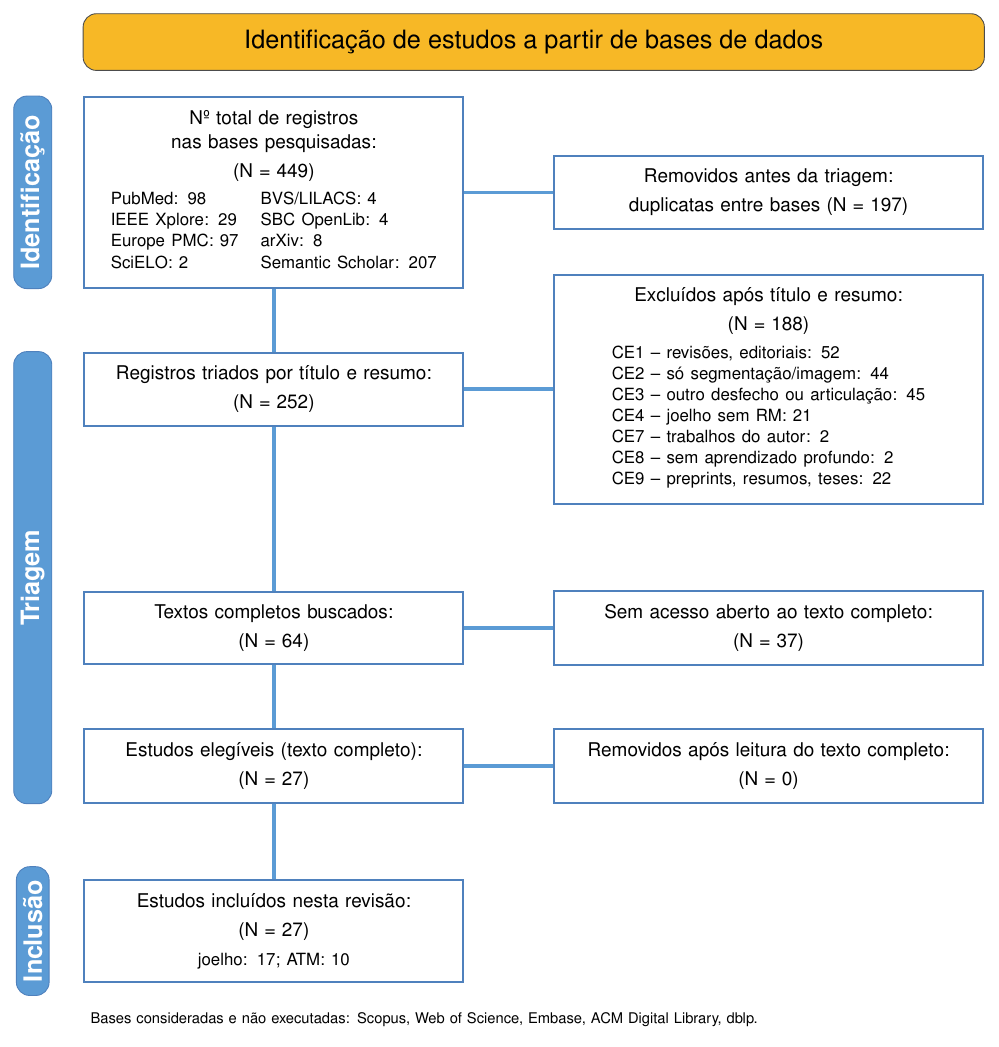
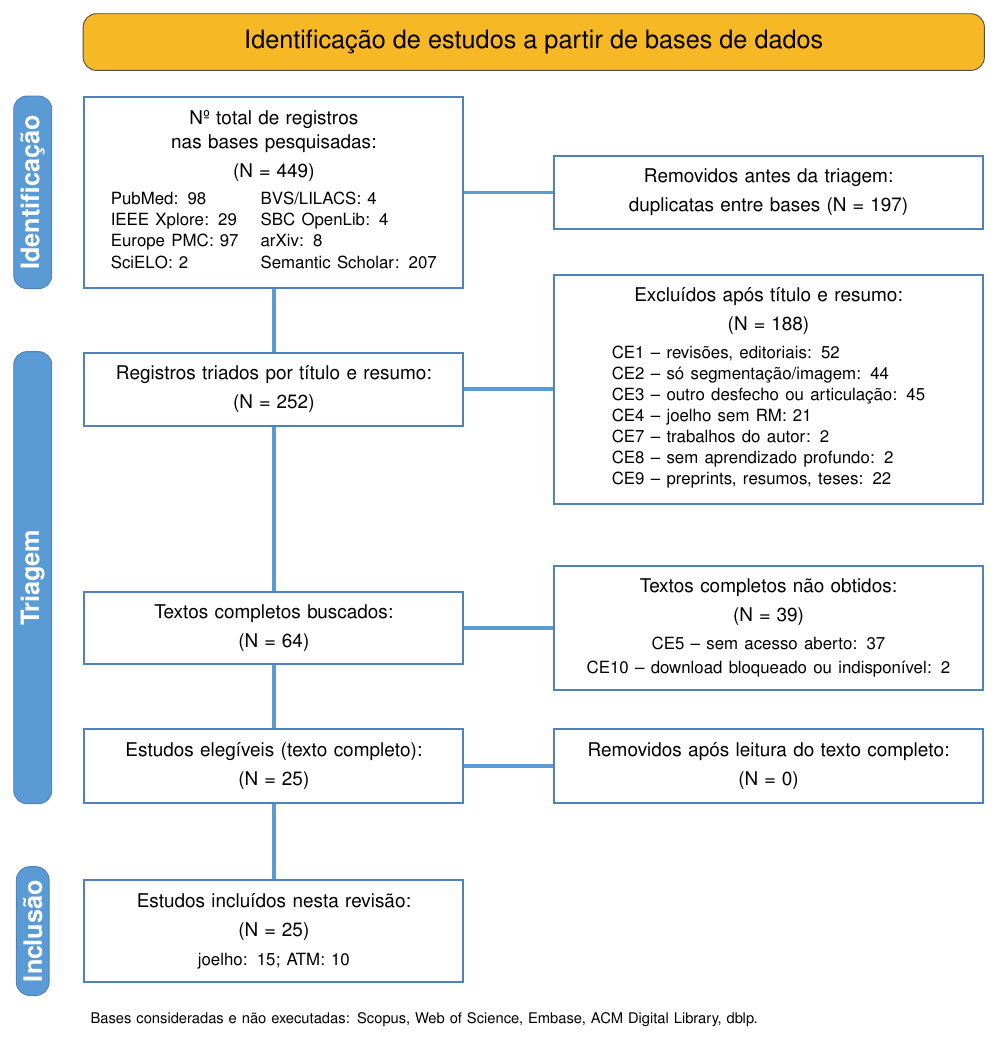
v2.1.0: exclui Manfredonia 2024 e Yan 2021 por CE10 (texto completo não obtido)
- Critério CE10: acesso aberto, mas download bloqueado ou falho no site da editora
- Incluídos: 25 (joelho 15, ATM 10); não obtidos: 39 (CE5 37, CE10 2)
- Fluxograma, tabela, README, docs/bases.md, lista_pdfs, .bib e script de PDFs atualizados
- Licenças conferidas nos PDFs; correção da licença de Yeoh 2023 e das páginas de Simran 2025

Claude-Session: https://claude.ai/code/session_014UpX5RmawNWZ6w4CZaLoEx

Changed region(s): [[0.5896, 0.5501, 0.962, 0.6724]]

diff --git a/src/prisma_counts.py b/src/prisma_counts.py
@@ -35,7 +35,8 @@ def counts(rows):
     screened = len(rows) - dec["CE6"]
     excl = {c: dec[c] for c in T2_CODES if dec[c]}
     sought = screened - sum(excl.values())
-    assessed = sought - dec["CE5"]
+    not_retrieved = dec["CE5"] + dec["CE10"]
+    assessed = sought - not_retrieved
     inc = [r for r in rows if r["decisao"] == "INCLUIDO"]
     return OrderedDict(
         identified_by_base=OrderedDict((b, by_base[b]) for b in DEDUP_ORDER if by_base[b] or b in by_base),
@@ -45,7 +46,9 @@ def counts(rows):
         excluded_title_abstract=excl,
         excluded_title_abstract_total=sum(excl.values()),
         reports_sought=sought,
-        reports_not_retrieved_CE5=dec["CE5"],
+        reports_not_retrieved=not_retrieved,
+        not_retrieved_CE5_no_open_access=dec["CE5"],
+        not_retrieved_CE10_download_failed=dec["CE10"],
         reports_assessed=assessed,
         reports_excluded=assessed - len(inc),
         included_total=len(inc),
@@ -106,7 +109,8 @@ def tikz(c):
 \node[lado, right=1.4cm of tri] (ex1) {{Excluídos após título e resumo:\\[2pt] (N = {c['excluded_title_abstract_total']})\\[3pt]
   {{\footnotesize {excl}}}}};
 \node[caixa, below=2.6cm of tri] (bus) {{Textos completos buscados:\\[2pt] (N = {c['reports_sought']})}};
-\node[lado, right=1.4cm of bus] (ce5) {{Sem acesso aberto ao texto completo:\\[2pt] (N = {c['reports_not_retrieved_CE5']})}};
+\node[lado, right=1.4cm of bus] (ce5) {{Textos completos não obtidos:\\[2pt] (N = {c['reports_not_retrieved']})\\[3pt]
+  {{\footnotesize CE5 -- sem acesso aberto: {c['not_retrieved_CE5_no_open_access']}\\ CE10 -- download bloqueado ou indisponível: {c['not_retrieved_CE10_download_failed']}}}}};
 \node[caixa, below=1.0cm of bus] (ele) {{Estudos elegíveis (texto completo):\\[2pt] (N = {c['reports_assessed']})}};
 \node[lado, right=1.4cm of ele] (ex2) {{Removidos após leitura do texto completo:\\[2pt] (N = {c['reports_excluded']})}};
 \node[caixa, below=1.2cm of ele] (inc) {{Estudos incluídos nesta revisão:\\[2pt] (N = {c['included_total']})\\[2pt]

diff --git a/figures/prisma2020.tex b/figures/prisma2020.tex
@@ -22,11 +22,12 @@
 \node[lado, right=1.4cm of tri] (ex1) {Excluídos após título e resumo:\\[2pt] (N = 188)\\[3pt]
   {\footnotesize \begin{tabular}{@{}l@{}}CE1 -- revisões, editoriais: 52 \\ CE2 -- só segmentação/imagem: 44 \\ CE3 -- outro desfecho ou articulação: 45 \\ CE4 -- joelho sem RM: 21 \\ CE7 -- trabalhos do autor: 2 \\ CE8 -- sem aprendizado profundo: 2 \\ CE9 -- preprints, resumos, teses: 22\end{tabular}}};
 \node[caixa, below=2.6cm of tri] (bus) {Textos completos buscados:\\[2pt] (N = 64)};
-\node[lado, right=1.4cm of bus] (ce5) {Sem acesso aberto ao texto completo:\\[2pt] (N = 37)};
-\node[caixa, below=1.0cm of bus] (ele) {Estudos elegíveis (texto completo):\\[2pt] (N = 27)};
+\node[lado, right=1.4cm of bus] (ce5) {Textos completos não obtidos:\\[2pt] (N = 39)\\[3pt]
+  {\footnotesize CE5 -- sem acesso aberto: 37\\ CE10 -- download bloqueado ou indisponível: 2}};
+\node[caixa, below=1.0cm of bus] (ele) {Estudos elegíveis (texto completo):\\[2pt] (N = 25)};
 \node[lado, right=1.4cm of ele] (ex2) {Removidos após leitura do texto completo:\\[2pt] (N = 0)};
-\node[caixa, below=1.2cm of ele] (inc) {Estudos incluídos nesta revisão:\\[2pt] (N = 27)\\[2pt]
-  {\footnotesize joelho: 17; ATM: 10}};
+\node[caixa, below=1.2cm of ele] (inc) {Estudos incluídos nesta revisão:\\[2pt] (N = 25)\\[2pt]
+  {\footnotesize joelho: 15; ATM: 10}};
 \path let \p1=(id.north west), \p2=(dup.north east) in node[draw=black!70, fill=laranja, rounded corners=6pt,
   minimum width=\x2-\x1, minimum height=0.9cm, font=\large, anchor=south] (banner) at (\x1/2+\x2/2, \y1+0.4cm)
   {Identificação de estudos a partir de bases de dados};

diff --git a/src/config.py b/src/config.py
@@ -95,6 +95,7 @@ CRITERIA = {
     "CE7": "Author's own work (already reported as Contribution 1 or 2)",
     "CE8": "Does not use deep learning (classical machine learning only)",
     "CE9": "Not a peer-reviewed full paper: preprint, thesis, congress abstract or peer-review report",
+    "CE10": "Full text not retrieved: open access, but the download was blocked or failed on the publisher's site",
 }
 
 # Order in which databases were deduplicated (a record is CE6 in every database after the first one)

diff --git a/docs/lista_pdfs.md b/docs/lista_pdfs.md
@@ -1,9 +1,10 @@
-# Lista de PDFs dos estudos incluídos (v2.0)
+# Lista de PDFs dos estudos incluídos (v2.1)
 
-Salve cada PDF em `pdfs/` com o nome `<chave>.pdf`. Antes de subir para o GitHub, confira a licença na primeira página do artigo.
-Os PDFs com "NÃO" na coluna *Pode subir?* ficam só no seu computador, em `pdfs/_local/` (pasta ignorada pelo Git). Para o repositório, o link basta.
+Os PDFs estão em `pdfs/` com o nome `<chave>.pdf`. A licença de cada um foi conferida na primeira página.
+Os marcados com "NÃO" ficam só no computador do autor, em `pdfs/_local/` (pasta ignorada pelo Git); para o repositório, o link basta.
+Dois estudos que passaram na triagem foram excluídos por CE10, porque o texto completo não pôde ser obtido (ver `docs/bases.md`).
 
-| # | Chave BibTeX | Articulação | Origem | Licença | Pode subir? | Link |
+| # | Chave BibTeX | Articulação | Origem | Licença | No repositório? | Link |
 |---|---|---|---|---|---|---|
 | 1 | `ananya_radiologyassistant_2023` | joelho | Semantic Scholar cc9389ea1d | CC BY (confirmado no PDF) | sim | https://doi.org/10.26562/irjcs.2023.v1004.07 |
 | 2 | `daneshmand_osteophytes_2024` | joelho | PubMed 38323840 | CC BY (confirmado no PDF) | sim | https://doi.org/10.1002/jor.25800 |
@@ -11,24 +12,22 @@ Os PDFs com "NÃO" na coluna *Pode subir?* ficam só no seu computador, em `pdfs
 | 4 | `guo_cartilage_2024` | joelho | Europe PMC 38487024 | CC BY 4.0 | sim | https://pmc.ncbi.nlm.nih.gov/articles/PMC10939064/ |
 | 5 | `karim_deepkneeexplainer_2021` | joelho | Semantic Scholar f53c1f9c39 | CC BY-NC-ND 4.0 (confirmado no PDF) | sim | https://doi.org/10.1109/ACCESS.2021.3062493 |
 | 6 | `liao_ohc_2025` | joelho | PubMed 40334259 | CC BY | sim | https://pmc.ncbi.nlm.nih.gov/articles/PMC12058133/ |
-| 7 | `manfredonia_klgrade_2024` | joelho | Semantic Scholar a00efac222 | CC BY-NC-ND 4.0 (SciTePress) | sim | https://doi.org/10.5220/0012471200003636 |
-| 8 | `margain_cthmaps_2026` | joelho | PubMed 41874622 | CC BY | sim | https://pmc.ncbi.nlm.nih.gov/articles/PMC13710605/ |
-| 9 | `moorthy_csfaunet_2026` | joelho | PubMed 41622323 | CC BY-NC-ND | sim | https://pmc.ncbi.nlm.nih.gov/articles/PMC12916792/ |
-| 10 | `namiri_phenotyping_2021` | joelho | PubMed 34035386 | CC BY | sim | https://pmc.ncbi.nlm.nih.gov/articles/PMC8149826/ |
-| 11 | `panwar_stacking_2024` | joelho | PubMed 39500982 | CC BY | sim | https://pmc.ncbi.nlm.nih.gov/articles/PMC11538306/ |
-| 12 | `panwar_vit_2025` | joelho | PubMed 41029374 | CC BY-NC-ND | sim | https://pmc.ncbi.nlm.nih.gov/articles/PMC12487547/ |
-| 13 | `simran_3dcnnvit_2025` | joelho | Semantic Scholar 3bb7bad3c5 | CC BY 4.0 | sim | https://doi.org/10.13005/bpj/3202 |
-| 14 | `yan_cnnmri_2021` | joelho | Semantic Scholar cf789df2c3 | CC BY (Hindawi/Wiley; conferir no PDF); sem retratação registrada no Crossref em 21/11/2026 | sim | https://doi.org/10.1155/2021/2803857 |
-| 15 | `yeoh_multitask_2023` | joelho | IEEE Xplore 10336807 | CC BY 4.0 (IEEE Access; confirmar no PDF) | sim | https://doi.org/10.1109/ACCESS.2023.3338379 |
-| 16 | `yeoh_tl3d_2023` | joelho | PubMed 37122858 | CC BY | sim | https://pmc.ncbi.nlm.nih.gov/articles/PMC10136763/ |
-| 17 | `zhong_uda_2023` | joelho | PubMed 37969620 | CC BY-NC-ND | sim | https://pmc.ncbi.nlm.nih.gov/articles/PMC10644135/ |
-| 18 | `choi_opg_2021` | ATM | PubMed 33986459 | CC BY | sim | https://pmc.ncbi.nlm.nih.gov/articles/PMC8119725/ |
-| 19 | `iqbal_cbct_2026` | ATM | Semantic Scholar b0d0acdf3f | não informada (Bioinformation; conferir no PDF) | NÃO | https://doi.org/10.6026/973206300227522 |
-| 20 | `krishnamoorthy_pfrcnn_2023` | ATM | Semantic Scholar 5a534d49e6 | não informada | NÃO | https://doi.org/10.17762/ijritcc.v11i6.7384 |
-| 21 | `lang_m4tmd_2026` | ATM | PubMed 41461305 | CC BY (Europe PMC; confirmar no PDF) | sim | https://doi.org/10.1016/j.jdent.2025.106322 |
-| 22 | `lee_bonescan_2025` | ATM | PubMed 41497394 | CC BY | sim | https://pmc.ncbi.nlm.nih.gov/articles/PMC12767182/ |
-| 23 | `lee_tmjfusion_2026` | ATM | Semantic Scholar 6dbe548de4 | CC BY-NC-ND 4.0 | sim | https://doi.org/10.1038/s41598-026-60962-4 |
-| 24 | `nguyen_opg_2026` | ATM | Semantic Scholar e082c832e5 | CC BY 4.0 | sim | https://doi.org/10.2174/01187421063134260810074044 |
-| 25 | `nozawa_tmj_2024` | ATM | PubMed 39067043 | sem licença aberta informada | NÃO | https://doi.org/10.1093/dmfr/twae040 |
-| 26 | `trivedi_cbct_2026` | ATM | Semantic Scholar 9f6a4e73a6 | Elsevier user license (conferir se é CC BY no PDF) | NÃO | https://doi.org/10.1016/j.ddj.2026.100122 |
-| 27 | `xu_tmjdjd_2026` | ATM | PubMed 42652629 | CC BY | sim | https://pmc.ncbi.nlm.nih.gov/articles/PMC13513506/ |
+| 7 | `margain_cthmaps_2026` | joelho | PubMed 41874622 | CC BY 4.0 (confirmado no PDF) | sim | https://pmc.ncbi.nlm.nih.gov/articles/PMC13710605/ |
+| 8 | `moorthy_csfaunet_2026` | joelho | PubMed 41622323 | CC BY-NC-ND | sim | https://pmc.ncbi.nlm.nih.gov/articles/PMC12916792/ |
+| 9 | `namiri_phenotyping_2021` | joelho | PubMed 34035386 | CC BY | sim | https://pmc.ncbi.nlm.nih.gov/articles/PMC8149826/ |
+| 10 | `panwar_stacking_2024` | joelho | PubMed 39500982 | CC BY | sim | https://pmc.ncbi.nlm.nih.gov/articles/PMC11538306/ |
+| 11 | `panwar_vit_2025` | joelho | PubMed 41029374 | CC BY-NC-ND 4.0 (confirmado no PDF) | sim | https://pmc.ncbi.nlm.nih.gov/articles/PMC12487547/ |
+| 12 | `simran_3dcnnvit_2025` | joelho | Semantic Scholar 3bb7bad3c5 | CC BY 4.0 (confirmado no PDF) | sim | https://doi.org/10.13005/bpj/3202 |
+| 13 | `yeoh_multitask_2023` | joelho | IEEE Xplore 10336807 | CC BY-NC-ND 4.0 (confirmado no PDF) | sim | https://doi.org/10.1109/ACCESS.2023.3338379 |
+| 14 | `yeoh_tl3d_2023` | joelho | PubMed 37122858 | CC BY | sim | https://pmc.ncbi.nlm.nih.gov/articles/PMC10136763/ |
+| 15 | `zhong_uda_2023` | joelho | PubMed 37969620 | CC BY-NC-ND | sim | https://pmc.ncbi.nlm.nih.gov/articles/PMC10644135/ |
+| 16 | `choi_opg_2021` | ATM | PubMed 33986459 | CC BY | sim | https://pmc.ncbi.nlm.nih.gov/articles/PMC8119725/ |
+| 17 | `iqbal_cbct_2026` | ATM | Semantic Scholar b0d0acdf3f | não informada (Bioinformation; conferir no PDF) | NÃO | https://doi.org/10.6026/973206300227522 |
+| 18 | `krishnamoorthy_pfrcnn_2023` | ATM | Semantic Scholar 5a534d49e6 | não informada | NÃO | https://doi.org/10.17762/ijritcc.v11i6.7384 |
+| 19 | `lang_m4tmd_2026` | ATM | PubMed 41461305 | CC BY 4.0 (confirmado no PDF) | sim | https://doi.org/10.1016/j.jdent.2025.106322 |
+| 20 | `lee_bonescan_2025` | ATM | PubMed 41497394 | CC BY 4.0 (confirmado no PDF) | sim | https://pmc.ncbi.nlm.nih.gov/articles/PMC12767182/ |
+| 21 | `lee_tmjfusion_2026` | ATM | Semantic Scholar 6dbe548de4 | CC BY-NC-ND 4.0 | sim | https://doi.org/10.1038/s41598-026-60962-4 |
+| 22 | `nguyen_opg_2026` | ATM | Semantic Scholar e082c832e5 | CC BY 4.0 (confirmado no PDF) | sim | https://doi.org/10.2174/01187421063134260810074044 |
+| 23 | `nozawa_tmj_2024` | ATM | PubMed 39067043 | sem licença aberta informada | NÃO | https://doi.org/10.1093/dmfr/twae040 |
+| 24 | `trivedi_cbct_2026` | ATM | Semantic Scholar 9f6a4e73a6 | Elsevier user license (conferir se é CC BY no PDF) | NÃO | https://doi.org/10.1016/j.ddj.2026.100122 |
+| 25 | `xu_tmjdjd_2026` | ATM | PubMed 42652629 | CC BY | sim | https://pmc.ncbi.nlm.nih.gov/articles/PMC13513506/ |

diff --git a/README.md b/README.md
@@ -14,7 +14,7 @@
 <p align="center">
   Thalles Cotta Fontainha · Orientador: Prof. Felipe da Rocha Henriques<br>
   Programa de Pós-Graduação em Instrumentação e Óptica Aplicada (PPGIO) · UFCI/RJ (antigo CEFET/RJ) e UFF<br>
-  <i>Versão 2.0.0 · busca de 21/11/2026 · ver <a href="CHANGELOG.md">CHANGELOG</a></i>
+  <i>Versão 2.1.0 · busca de 21/11/2026 · ver <a href="CHANGELOG.md">CHANGELOG</a></i>
 </p>
 
 ---
@@ -25,7 +25,7 @@ Este repositório guarda a busca, a triagem e a lista de estudos da revisão do 
 
 **Pergunta da revisão.** Que estudos usam aprendizado profundo para classificar, graduar ou detectar osteoartrite do joelho em ressonância magnética, ou da ATM em qualquer modalidade de imagem, e o que dizem sobre representação volumétrica e transferência de conhecimento com poucos dados?
 
-> **English summary.** Reproducible search in 8 databases (4 health, 4 computing), screening decisions with criterion codes for all 449 records, an auto-generated PRISMA 2020 flow diagram, and the list of 27 included studies (with licences) for a PhD project on 3D CNNs for joint MRI with limited labelled data (knee-to-TMJ transfer).
+> **English summary.** Reproducible search in 8 databases (4 health, 4 computing), screening decisions with criterion codes for all 449 records, an auto-generated PRISMA 2020 flow diagram, and the list of 25 included studies (with licences) for a PhD project on 3D CNNs for joint MRI with limited labelled data (knee-to-TMJ transfer).
 
 ## Resultado
 
@@ -40,12 +40,12 @@ Este repositório guarda a busca, a triagem e a lista de estudos da revisão do 
 | Saúde | BVS/LILACS | S1 (DeCS) | 4 | 3 | 0 | 0 |
 | Computação | SBC OpenLib (SBCAS) | S2 | 4 | 4 | 0 | 0 |
 | Computação | arXiv | B1 / B2 | 8 / 0 | 6 / 0 | 0 | 0 |
-| Computação | Semantic Scholar | B1 / B2 | 171 / 36 | 73 / 13 | 12 / 5 | 6 / 5 |
-| | **Total** | | **449** | **252** | **64** | **27** |
+| Computação | Semantic Scholar | B1 / B2 | 171 / 36 | 73 / 13 | 12 / 5 | 4 / 5 |
+| | **Total** | | **449** | **252** | **64** | **25** |
 
 **Consideradas e não executadas:** Scopus, Web of Science e Embase (exigem login institucional pelo Portal CAPES/CAFe); ACM Digital Library e dblp (bloqueiam acesso automatizado). O motivo de cada uma e o passo a passo para executá-las estão em [`docs/bases.md`](docs/bases.md).
 
-A lista dos 27 estudos, com links e licenças, está em [`docs/lista_pdfs.md`](docs/lista_pdfs.md). O BibTeX está em `references/included_studies.bib`.
+A lista dos 25 estudos, com links e licenças, está em [`docs/lista_pdfs.md`](docs/lista_pdfs.md). O BibTeX está em `references/included_studies.bib`.
 
 ## Strings de busca
 
@@ -86,6 +86,7 @@ Os descritores vêm do DeCS/MeSH (BVS): Osteoartrite (D010003), Osteoartrite do 
 | CE7 | Trabalho do próprio autor, já apresentado nas Contribuições 1 e 2 | T2 |
 | CE8 | Não usa aprendizado profundo (só aprendizado de máquina clássico) | T2 |
 | CE9 | Não é artigo completo revisado por pares (preprint, tese, resumo de congresso ou parecer) | T2 |
+| CE10 | Texto completo não obtido: acesso aberto, mas o download foi bloqueado ou falhou no site da editora | T3 |
 
 ## O que é automático e o que não é
 
@@ -120,7 +121,7 @@ Os scripts usam só a biblioteca padrão do Python 3.9+. Os resultados das bases
 ```
 src/          strings (config.py), scripts de busca, contagem e fluxograma
 data/         screening_decisions.csv (449 registros), prisma_counts.json, selection_table.md
-docs/         bases.md (como cada base foi consultada), lista_pdfs.md (27 estudos, links, licenças)
+docs/         bases.md (como cada base foi consultada), lista_pdfs.md (25 estudos, links, licenças)
 references/   included_studies.bib e included_studies.csv
 figures/      prisma2020.tex / .pdf / .png
 pdfs/         PDFs dos incluídos cuja licença permite redistribuição
@@ -132,6 +133,7 @@ assets/       logotipos da UFCI/RJ e do PPGIO
 - Revisão estruturada, não revisão sistemática completa: um único revisor fez a triagem, e não há avaliação de risco de viés.
 - Scopus, Web of Science, Embase, ACM DL e dblp ainda não foram executadas.
 - O critério de acesso aberto (CI4) excluiu 37 registros potencialmente relevantes (CE5 no CSV). Se o critério passar a aceitar o acesso pelo Portal CAPES, eles voltam para a avaliação de texto completo.
+- Dois estudos de acesso aberto foram excluídos por CE10, porque o PDF não pôde ser obtido em 21/11/2026: Manfredonia et al. (2024), cujo download na SciTePress exige CAPTCHA e falhou, e Yan (2021), cujo site (Hindawi/Wiley) bloqueou o acesso. Se forem obtidos depois, voltam para a avaliação de texto completo.
 - Alguns incluídos vêm de periódicos de menor impacto. A inclusão segue os critérios, não a qualidade do periódico; a qualidade é discutida na síntese da tese.
 
 ## Como citar

diff --git a/docs/bases.md b/docs/bases.md
@@ -15,8 +15,8 @@ Ordem de deduplicação: PubMed → IEEE Xplore → Europe PMC → SciELO → BV
 | Saúde | BVS/LILACS | Portal Regional da BVS, coleção LILACS Plus | S1 (DeCS) | 4 | 3 | 0 |
 | Computação | SBC OpenLib | Busca de cada série (SBCAS e SBCAS Estendido) | S2 | 4 | 4 | 0 |
 | Computação | arXiv | API (`src/search_arxiv.py`), campo `abs` | B1, B2 | 8 | 6 | 0 |
-| Computação | Semantic Scholar | Graph API, *bulk search* (`src/search_semanticscholar.py`) | B1, B2 | 207 | 86 | 11 |
-| | **Total** | | | **449** | **252** | **27** |
+| Computação | Semantic Scholar | Graph API, *bulk search* (`src/search_semanticscholar.py`) | B1, B2 | 207 | 86 | 9 |
+| | **Total** | | | **449** | **252** | **25** |
 
 ## PubMed/MEDLINE (saúde)
 
@@ -68,7 +68,7 @@ Ordem de deduplicação: PubMed → IEEE Xplore → Europe PMC → SciELO → BV
 - **Strings:** B1 e B2 na sintaxe da *bulk search* (`+` = AND, `|` = OR), aplicadas a título e resumo.
 - **Filtro:** `year=2021-2026`.
 - **Resultado:** B1 = 171; B2 = 36. Destes, 84 já estavam no PubMed ou na Europe PMC (mesmo PMID) e 37 eram duplicatas do IEEE, do arXiv ou de *preprints* da Europe PMC.
-- **Por que esta base:** ela cobre anais de computação (IEEE, ACM, Springer, SciTePress) e periódicos fora do MEDLINE. Foi daqui que vieram 11 dos 27 incluídos, entre eles o estudo de Guida et al. (2021), que na v1.0 só tinha entrado por busca manual.
+- **Por que esta base:** ela cobre anais de computação (IEEE, ACM, Springer, SciTePress) e periódicos fora do MEDLINE. Foi daqui que vieram 9 dos 25 incluídos, entre eles o estudo de Guida et al. (2021), que na v1.0 só tinha entrado por busca manual.
 - **Limite:** a busca não é tão controlada quanto a do PubMed, porque o índice tem ranqueamento e variações de grafia. Por isso a triagem dessa base foi a mais trabalhosa.
 
 ## Bases consideradas e não executadas
@@ -82,3 +82,14 @@ Ordem de deduplicação: PubMed → IEEE Xplore → Europe PMC → SciELO → BV
 | dblp | Verificação anti-robô impede acesso automatizado | Busca por título (o dblp não indexa resumos) |
 
 Quando essas bases forem executadas, acrescente as linhas ao `data/screening_decisions.csv` e rode `python src/prisma_counts.py`. O fluxograma e as tabelas são gerados de novo automaticamente.
+
+## Textos completos não obtidos (CE10)
+
+Dois estudos de acesso aberto passaram na triagem, mas o PDF não pôde ser obtido em 21/11/2026:
+
+| Estudo | DOI | Motivo |
+|---|---|---|
+| Manfredonia *et al.* (2024), ICAART, SciTePress, CC BY-NC-ND 4.0 | 10.5220/0012471200003636 | O download na página da SciTePress exige CAPTCHA, e a tentativa falhou |
+| Yan (2021), *Scientific Programming* (Hindawi, hoje Wiley) | 10.1155/2021/2803857 | O site antigo da Hindawi redireciona para a Wiley, que bloqueou o acesso ("Sorry, you have been blocked"). Não há retratação registrada no Crossref |
+
+Eles aparecem no fluxograma junto com os de CE5, na caixa "Textos completos não obtidos", como o PRISMA 2020 pede para *reports not retrieved*. Se os PDFs forem obtidos depois, basta trocar a decisão no CSV para INCLUIDO e rodar `src/prisma_counts.py`.

diff --git a/CHANGELOG.md b/CHANGELOG.md
@@ -1,5 +1,11 @@
 # Histórico de versões
 
+## 2.1.0 – 21/11/2026
+- Critério novo CE10 (texto completo não obtido). Manfredonia et al. (2024) e Yan (2021) foram excluídos: os dois são de acesso aberto, mas o download falhou (CAPTCHA na SciTePress; bloqueio no site da Hindawi/Wiley).
+- Incluídos: 25 (15 de joelho e 10 de ATM). Textos completos não obtidos: 39 (37 sem acesso aberto, CE5; 2 com download que falhou, CE10).
+- PDFs dos 21 estudos de licença aberta em `pdfs/`. Licenças conferidas na primeira página de cada PDF.
+- Correções: licença de Yeoh et al. (2023, IEEE Access) é CC BY-NC-ND 4.0; páginas de Simran et al. (2025) são 1647–1667.
+
 ## 2.0.0 – 21/11/2026
 - Seis bases novas: Europe PMC, SciELO, BVS/LILACS, SBC OpenLib, arXiv e Semantic Scholar. No total, 8 bases executadas (4 de saúde e 4 de computação).
 - Cinco bases registradas como consideradas e não executadas (Scopus, Web of Science, Embase, ACM DL e dblp), com o motivo e o passo a passo para executá-las.

diff --git a/data/selection_table.md b/data/selection_table.md
@@ -10,6 +10,6 @@
 | BVS/LILACS | S1 | 4 | 3 | 0 | 0 |
 | SBC OpenLib | S2 | 4 | 4 | 0 | 0 |
 | arXiv | B1 | 8 | 6 | 0 | 0 |
-| Semantic Scholar | B1 | 171 | 73 | 12 | 6 |
+| Semantic Scholar | B1 | 171 | 73 | 12 | 4 |
 | Semantic Scholar | B2 | 36 | 13 | 5 | 5 |
-| **Total** | | **449** | **252** | **64** | **27** |
+| **Total** | | **449** | **252** | **64** | **25** |
